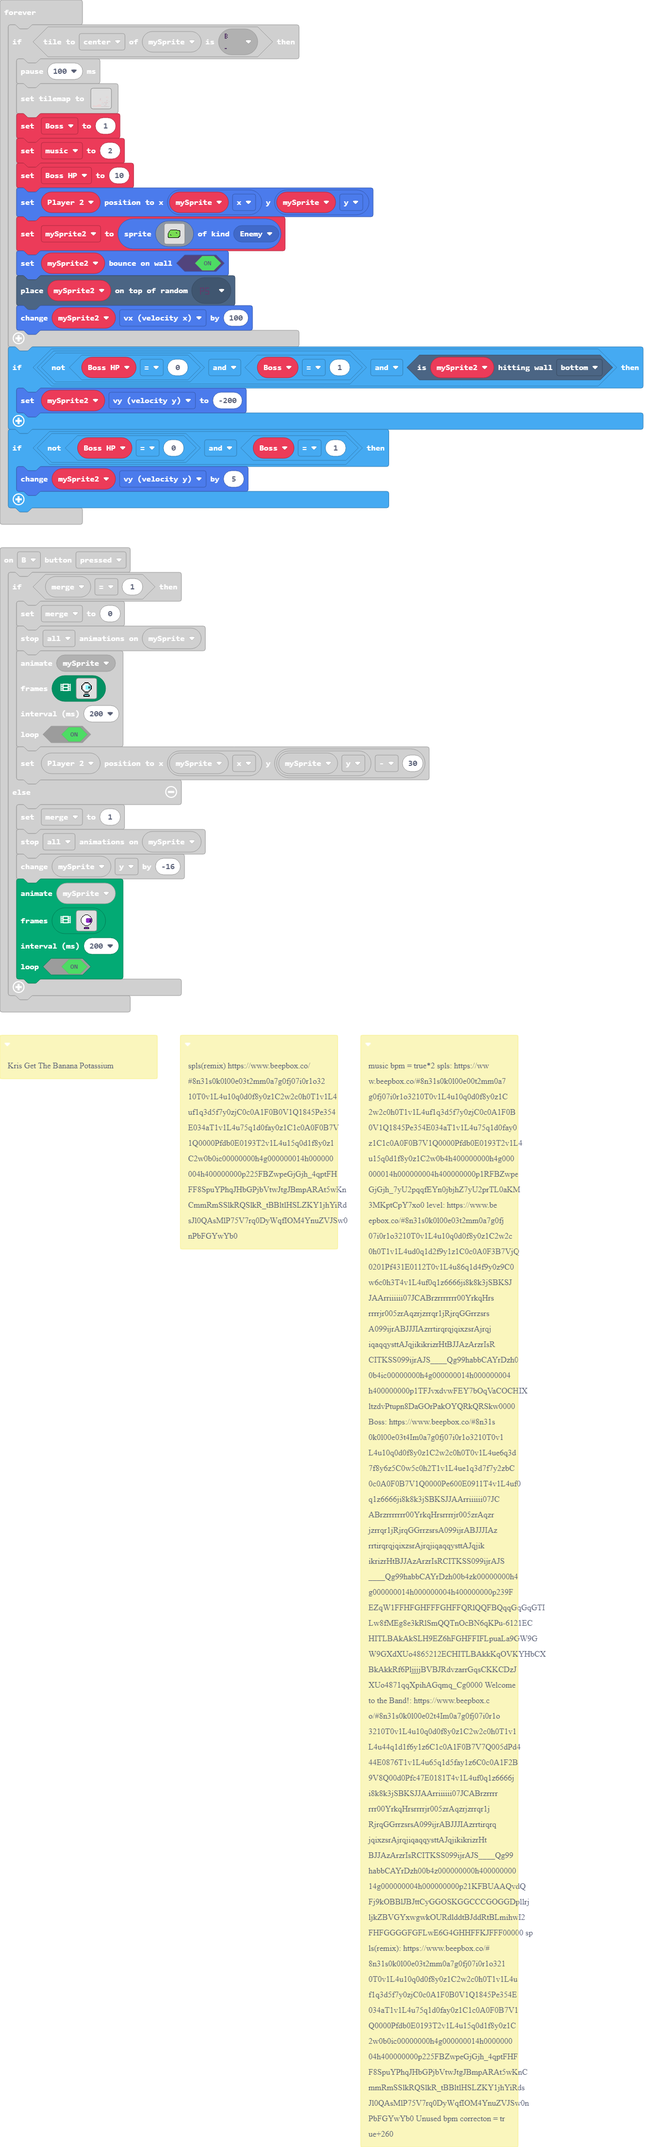
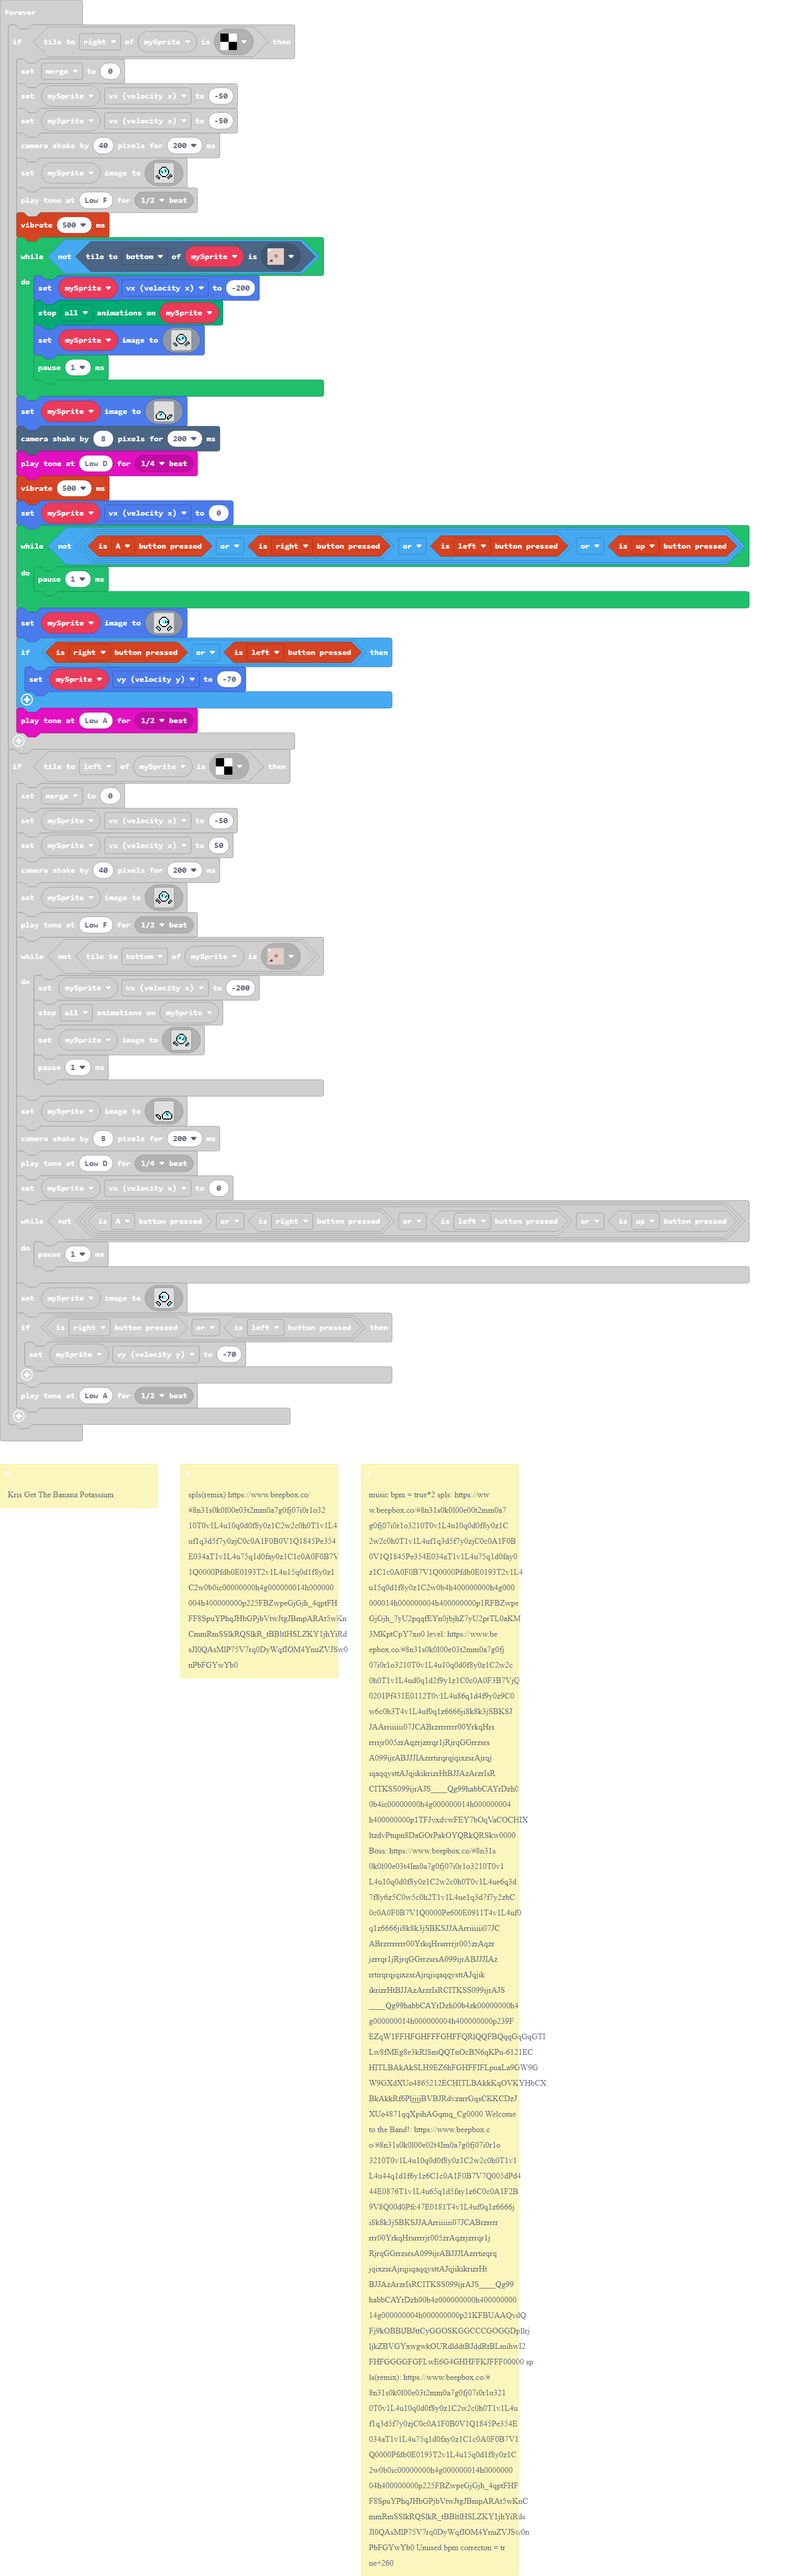
Update pxt.json, main.blocks, main.ts

diff --git a/main.ts b/main.ts
@@ -1886,6 +1886,7 @@ forever(function () {
             . . . . . . . . . . . . . . . . 
             `)
         music.playTone(175, music.beat(BeatFraction.Half))
+        controller.vibrate(500)
         while (!(mySprite.tileKindAt(TileDirection.Bottom, assets.tile`myTile6`))) {
             mySprite.vx = -200
             animation.stopAnimation(animation.AnimationTypes.All, mySprite)
@@ -1929,6 +1930,7 @@ forever(function () {
             `)
         scene.cameraShake(8, 200)
         music.playTone(147, music.beat(BeatFraction.Quarter))
+        controller.vibrate(500)
         mySprite.vx = 0
         while (!(controller.A.isPressed() || controller.right.isPressed() || controller.left.isPressed() || controller.up.isPressed())) {
             pause(1)
